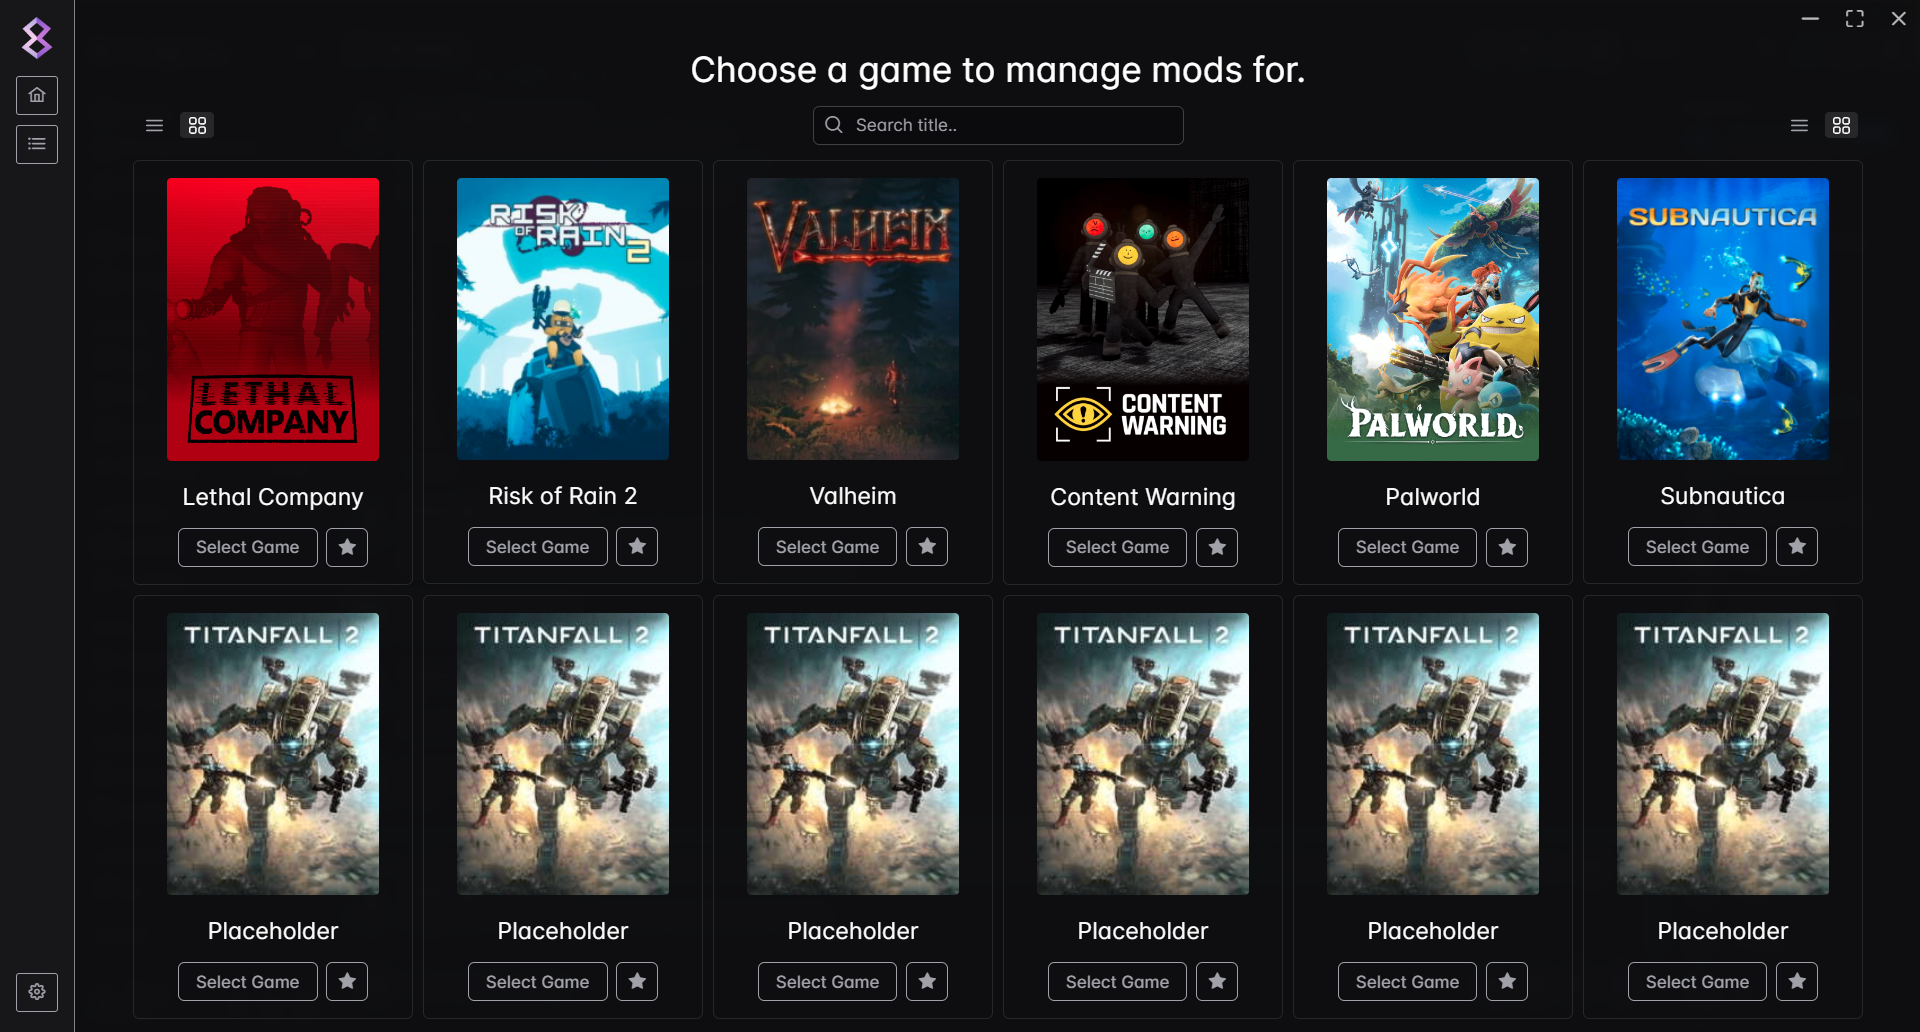
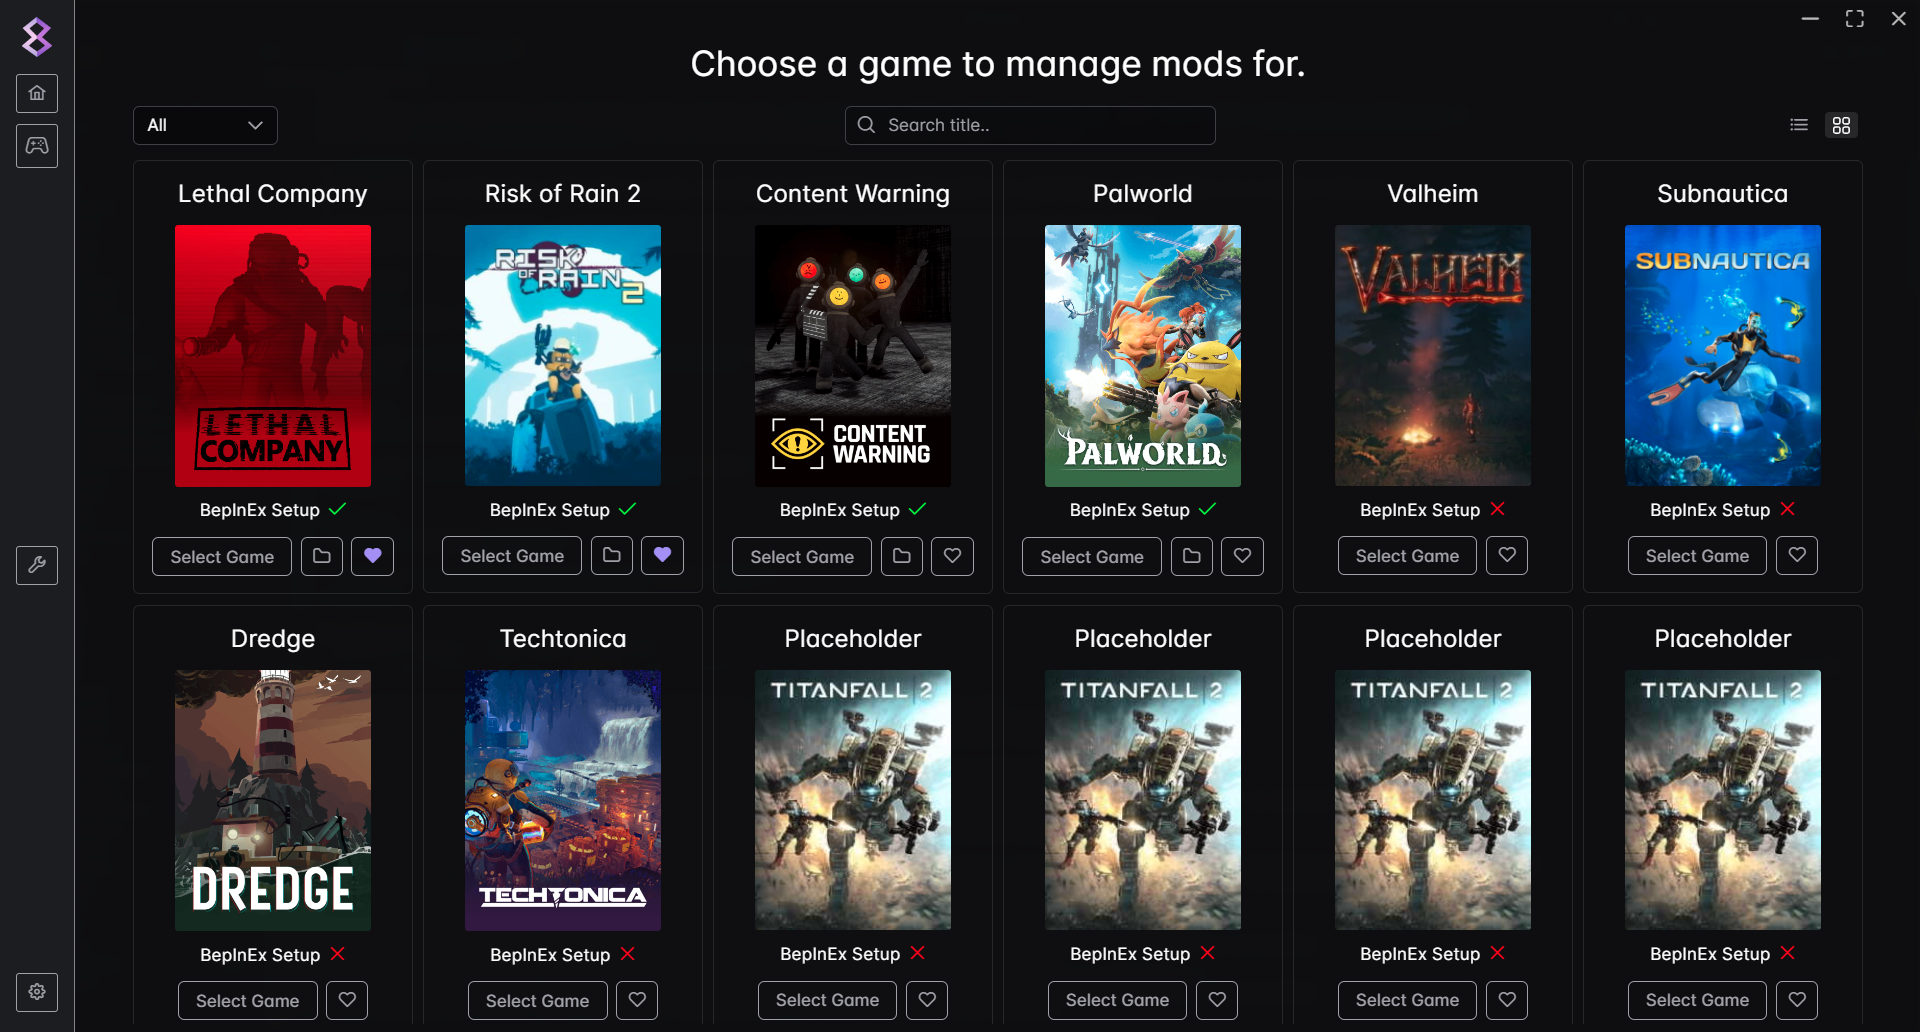
update screenshots

diff --git a/README.md b/README.md
@@ -8,8 +8,30 @@ Built with [Wails](https://wails.io) for an Electron-like experience but without
 > Once officially released, a proper FOSS license will be added and contributions will be welcome!\
 > Meanwhile, there is no license, meaning all rights are reserved.
 
-<img src="./screenshots/game-selection-grid.png">
-<img src="./screenshots/settings.png">
+# Previews
+<details>
+  <summary>Game Selection</summary>
+
+  <img src="./screenshots/game-selection-grid.png" width="1000"/>
+</details
+
+<details>
+  <summary>Selected Game</summary>
+
+  <img src="./screenshots/selected-game.png" width="1000"/>
+</details
+
+<details>
+  <summary>Config Editor</summary>
+
+  <img src="./screenshots/config-editor.png" width="1000"/>
+</details
+
+<details>
+  <summary>Settings</summary>
+
+  <img src="./screenshots/settings.png" width="1000"/>
+</details
 
 ## Features
 - Multiple themes + dark mode by default.
